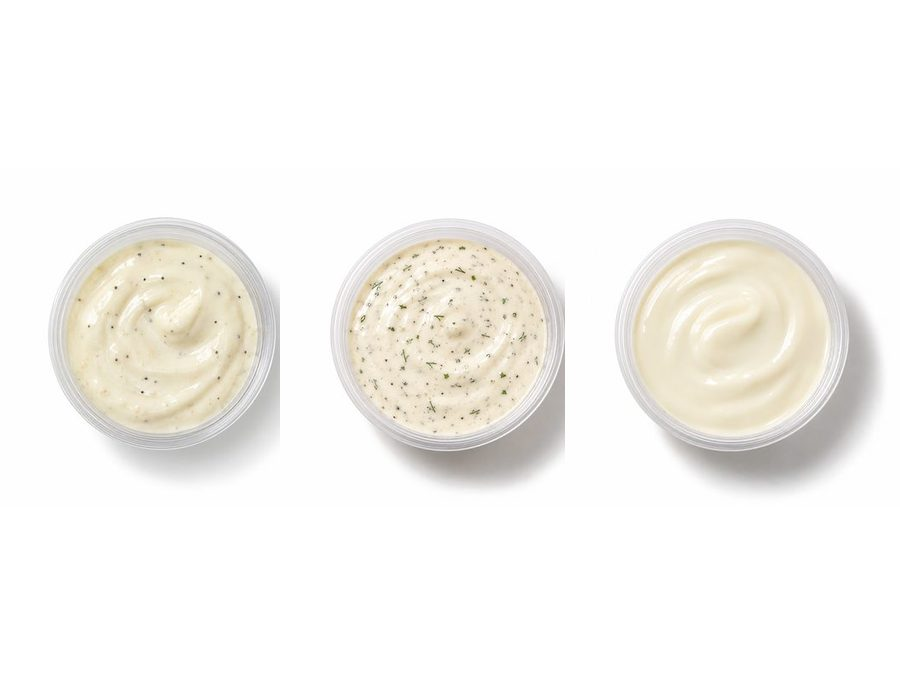
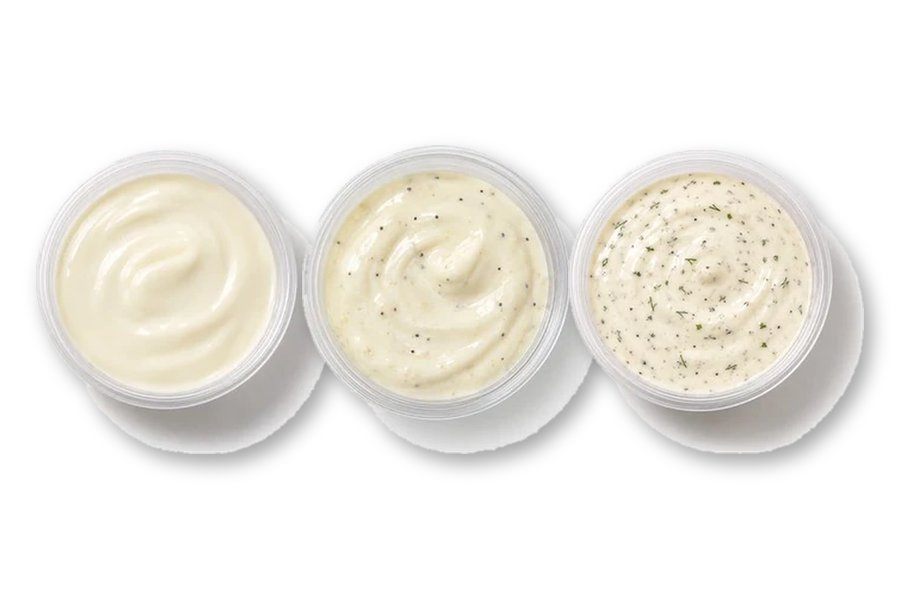
Cart drink thumbnails show the first picked drinks side by side; dip cut-outs; new Drinks & Dips cover
Claude-Session: https://claude.ai/code/session_01GwuNKQ4EhJTqGbbawQ6M8A

Changed region(s): [[0.0311, 0.24, 0.9644, 0.78], [0.1556, 0.54, 0.1867, 0.57]]

diff --git a/pages/cart.js b/pages/cart.js
@@ -1,5 +1,5 @@
 // pages/cart.js
-import { DRINK_CATEGORIES, drinkImage } from "../utils/drinkCatalog";
+import { DRINK_CATEGORIES, THUMB_MAX, drinkImage, findDrink } from "../utils/drinkCatalog";
 import React, { useEffect, useState } from "react";
 import Link from "next/link";
 import { useCart, DealCodeEntry } from "../components/CartSystem";
@@ -103,6 +103,26 @@ function FallbackImg({ srcs, alt, className }) {
       loading="lazy"
       onError={() => setI((v) => v + 1)}
     />
+  );
+}
+
+// Cart picture for a drinks/dips line: the first few drinks picked (up to
+// 4 cans, or 3 of anything else), standing side by side on white at their
+// real sizes, like the category covers.
+function DrinksThumb({ item }) {
+  const max = THUMB_MAX[item?.categoryId] || 3;
+  const picked = (item?.items || [])
+    .map((it) => findDrink(item.categoryId, it?.label))
+    .filter(Boolean)
+    .slice(0, max);
+  if (!picked.length) return <span className="cart-line__img cart-img--empty" aria-hidden="true" />;
+  const tallest = Math.max(...picked.map((d) => d.mm || 1));
+  return (
+    <span className="cart-line__img cart-drinks" aria-hidden="true">
+      {picked.map((d) => (
+        <img key={d.label} src={d.img} alt="" style={{ height: `${Math.round(((d.mm || tallest) / tallest) * 86)}%` }} />
+      ))}
+    </span>
   );
 }
 
@@ -232,7 +252,11 @@ function ItemRow({ item, priceCents, couponName, onQty, onRemove, onEdit }) {
   return (
     <div className="cart-line">
       <div className="cart-line__item">
-        <FallbackImg srcs={itemImages(item)} alt="" className="cart-line__img" />
+        {item?.type === "drinks-dips" ? (
+          <DrinksThumb item={item} />
+        ) : (
+          <FallbackImg srcs={itemImages(item)} alt="" className="cart-line__img" />
+        )}
         <div className="cart-line__text">
           <button type="button" className="cart-line__name" onClick={() => onEdit?.(item)}>
             {title}
@@ -852,6 +876,22 @@ export default function CartPage() {
           background: var(--menu-box-bg);
           border: 1px solid var(--menu-box-border);
           border-radius: 0.1875rem;
+        }
+        .cart-box :global(.cart-drinks) {
+          display: flex;
+          align-items: flex-end;
+          justify-content: center;
+          gap: 1px;
+          padding: 0 2px 4px;
+          overflow: hidden;
+          background: #fff;
+        }
+        .cart-box :global(.cart-drinks img) {
+          flex: 0 1 auto;
+          min-width: 0;
+          max-width: 100%;
+          object-fit: contain;
+          object-position: bottom;
         }
         .cart-box :global(.cart-line__img) {
           flex: 0 0 52px;

diff --git a/components/DrinksDipsBuilder.js b/components/DrinksDipsBuilder.js
@@ -35,12 +35,18 @@ export function DrinksCategoryPanel({
     }
     return out;
   });
-  const change = (label, delta) =>
-    setCounts((prev) => ({ ...prev, [label]: Math.max(0, Math.min(50, (prev[label] || 0) + delta)) }));
+  // the order drinks were first picked in (the cart picture shows the
+  // first few, so it matches what the customer tapped first)
+  const [order, setOrder] = useState(() => Object.keys(counts));
+  const change = (label, delta) => {
+    const next = Math.max(0, Math.min(50, (counts[label] || 0) + delta));
+    setCounts((prev) => ({ ...prev, [label]: next }));
+    setOrder((prev) => (next > 0 ? (prev.includes(label) ? prev : [...prev, label]) : prev.filter((l) => l !== label)));
+  };
 
   const items = useMemo(
-    () => options.filter((o) => counts[o.label] > 0).map((o) => ({ label: o.label, qty: counts[o.label] })),
-    [options, counts]
+    () => order.filter((l) => counts[l] > 0).map((l) => ({ label: l, qty: counts[l] })),
+    [order, counts]
   );
   const count = items.reduce((n, it) => n + it.qty, 0);
   const totalCents = priceDrinksDips(categoryId, items);

diff --git a/utils/drinkCatalog.js b/utils/drinkCatalog.js
@@ -55,11 +55,10 @@ export const DRINK_CATEGORIES = {
   dips: {
     label: "Dips",
     tile: "/images/dips/dips-tile.jpg",
-    photos: true, // square photos rather than cut-outs
     options: [
-      { label: "Blue Cheese", img: "/images/dips/blue-cheese.jpg" },
-      { label: "Garlic", img: "/images/dips/garlic.jpg" },
-      { label: "Ranch", img: "/images/dips/ranch.jpg" },
+      { label: "Blue Cheese", img: "/images/dips/blue-cheese-cut.webp", mm: 60 },
+      { label: "Garlic", img: "/images/dips/garlic-cut.webp", mm: 60 },
+      { label: "Ranch", img: "/images/dips/ranch-cut.webp", mm: 60 },
     ],
   },
 };
@@ -74,6 +73,9 @@ export function findDrink(categoryId, label) {
   const key = norm(label);
   return cat.options.find((o) => norm(o.label) === key) || null;
 }
+
+// Cart thumbnails show up to this many of the picked drinks side by side.
+export const THUMB_MAX = { cans: 4, twoLiters: 3, other: 3, dips: 3 };
 
 export function drinkImage(categoryId, label) {
   return findDrink(categoryId, label)?.img || DRINK_CATEGORIES[categoryId]?.tile || "/images/menu_drinks.png";

diff --git a/pages/menu.js b/pages/menu.js
@@ -675,7 +675,7 @@ function MenuBody() {
       { id: "wings",       label: "Wings",            img: "/images/wings.jpg",     nav: { tab: "entrees", sub: "wings" } },
       { id: "sides",       label: "Sides",            img: "/images/menu_sides.png",     nav: { tab: "sides" } },
       { id: "combos",      label: "Combos",           img: "/images/combos/combos-cover.jpg", nav: { tab: "entrees", sub: "combos" } },
-      { id: "drinks-dips", label: "Drinks & Dips",    img: "/images/menu_drinks.png",    nav: { tab: "drinks" } },
+      { id: "drinks-dips", label: "Drinks & Dips",    img: "/images/drinks/cover-drinks-dips.jpg", nav: { tab: "drinks" } },
       { id: "special",     label: "Special Menu",     img: "/images/menu_special.png",   nav: { tab: "entrees", sub: "special" } },
     ],
     []

diff --git a/scripts/drink-images.py b/scripts/drink-images.py
@@ -77,10 +77,24 @@ assert len(runs) == len(names), runs
 for (x0, x1), n in zip(runs, names):
     save(to_height(crop(g.crop((x0, 0, x1, g.height))), round(mm * PX_PER_MM)), n)
 
+# ---- Dips: cut out of their white photos, sized by the cup's real width
+# (about 62 mm across, half the width of a can is 33 mm)
+DIPS = {"blue-cheese": "blue-cheese", "garlic": "garlic", "ranch": "ranch"}
+for src, n in DIPS.items():
+    im = crop(cut_white(Image.open(f"public/images/dips/{src}.jpg")))
+    w = round(62 * PX_PER_MM)
+    im = im.resize((w, round(im.height * w / im.width)), Image.LANCZOS)
+    im.save(f"public/images/dips/{n}-cut.webp", "WEBP", quality=88, method=6)
+    print(f"dip {n:20s} {im.size}")
+
 # ---- Menu tiles (Drinks page): a few drinks standing in a row on white ----
-def tile(names, name, overlap=0.18, fill=0.86):
-    TW, TH = 900, 600
-    ims = [Image.open(f"{OUT}/{n}.webp").convert("RGBA") for n in names]
+def tile(names, name, overlap=0.18, fill=0.86, size=(900, 600), folder=OUT, scales=None):
+    # scales: optional size multiplier per item (e.g. make a small dip cup easier to see)
+    # names are files in `folder` (or "dips/<name>" paths under public/images)
+    TW, TH = size
+    ims = [Image.open(f"public/images/{n}.webp" if "/" in n else f"{folder}/{n}.webp").convert("RGBA") for n in names]
+    if scales:
+        ims = [i.resize((round(i.width * f), round(i.height * f)), Image.LANCZOS) for i, f in zip(ims, scales)]
     k = TH * fill / max(i.height for i in ims)
     ims = [i.resize((round(i.width * k), round(i.height * k)), Image.LANCZOS) for i in ims]
     step = [round(i.width * (1 - overlap)) for i in ims]
@@ -97,9 +111,13 @@ def tile(names, name, overlap=0.18, fill=0.86):
         blk = Image.new("RGBA", i.size, (0, 0, 0, 255)); blk.putalpha(i.getchannel("A").point(lambda v: int(v * 0.35)))
         sh.alpha_composite(blk, (x + 8, y + 10)); c.alpha_composite(sh.filter(ImageFilter.GaussianBlur(9)))
         c.alpha_composite(i, (x, y)); x += st
-    c.convert("RGB").save(f"{OUT}/{name}.jpg", "JPEG", quality=85, optimize=True)
+    c.convert("RGB").save(f"public/images/{name}.jpg" if "/" in name else f"{OUT}/{name}.jpg", "JPEG", quality=85, optimize=True)
     print("tile", name)
 
 tile(["2l-coke", "2l-canada-dry", "2l-pepsi"], "tile-2l", overlap=0.12)
 tile(["can-coke", "can-sprite", "can-crush-orange", "can-pepsi"], "tile-cans", overlap=0.06)
 tile(["gatorade-red", "red-bull", "apple-juice", "water", "gatorade-blue"], "tile-other", overlap=0.15)
+# Dips tile and the Drinks & Dips cover on the menu's front page (3:2)
+tile(["dips/blue-cheese-cut", "dips/garlic-cut", "dips/ranch-cut"], "dips/dips-tile", overlap=0.10, fill=0.6)
+tile(["2l-coke", "gatorade-orange", "can-pepsi", "dips/garlic-cut"], "drinks/cover-drinks-dips", overlap=0.10, size=(1350, 900),
+     fill=0.94, scales=[1, 1, 1, 1.7])
